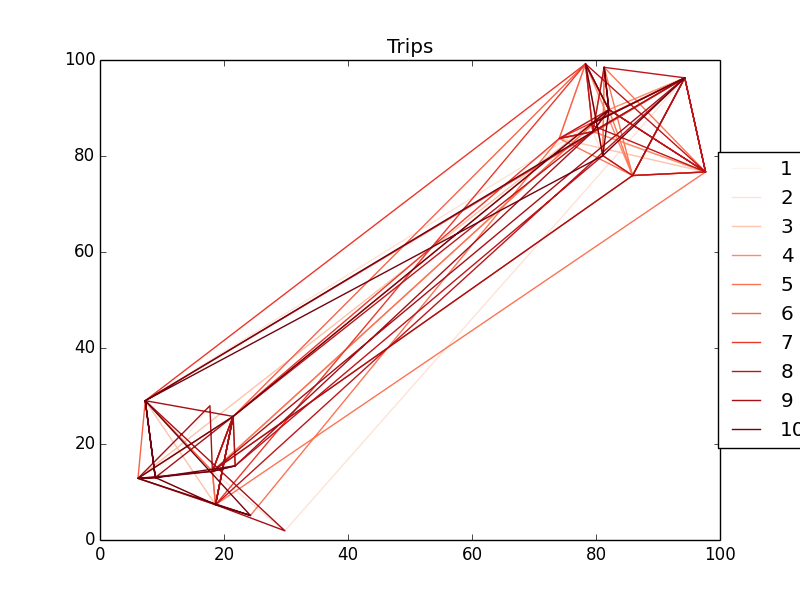
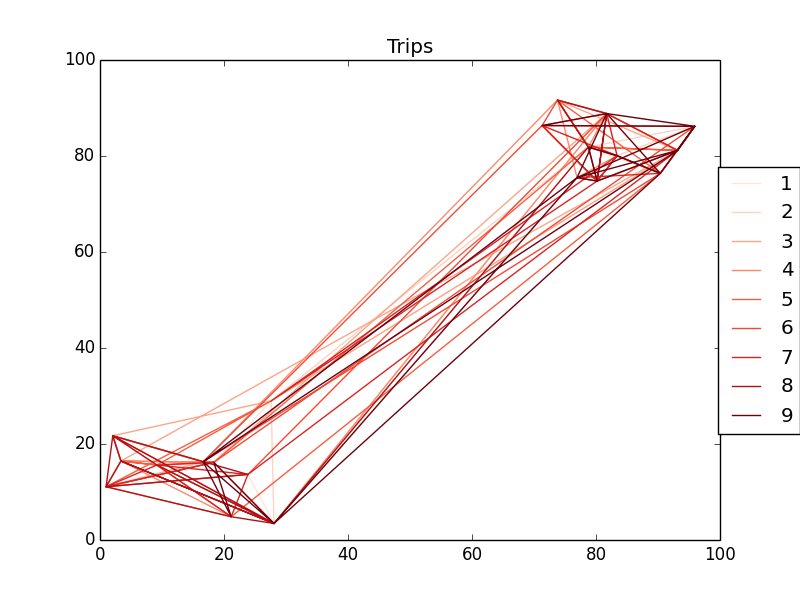
왜 다 step1 에서 끝나지?

Changed region(s): [[0.125, 0.09, 1.0, 0.9]]

diff --git a/MapGenerator.py b/MapGenerator.py
@@ -27,7 +27,7 @@ class MapGenerator:
                 sta = (random.random() * 30 + 70, random.random() * 30 + 70, j)
                 self.stations.append(sta)
 
-        self.depot = (random.random()*100, random.random()*100, -1)
+        self.depot = (50, 50, -1)
         self.distdepot = []
         for j in range(self.m):
             self.distdepot.append(math.sqrt((self.stations[j][0]-self.depot[0])**2

diff --git a/Simulator.py b/Simulator.py
@@ -7,9 +7,6 @@ from Visualization import Visualization
 from GAOperator import GAOperator
 from Shuttle import Shuttle
 
-import random
-import copy
-
 class Simulator:
     # as time goes by simulate situation
     def __init__(self, m = 20, n = 100, T = 1000, shutN = 10, shutC = 5, offP = 0.6, \
